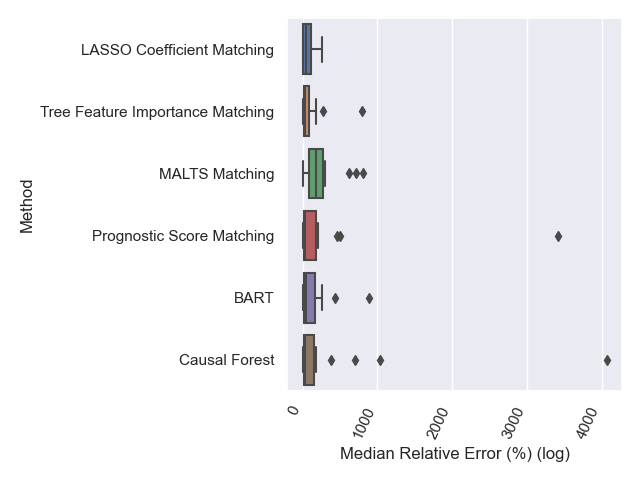
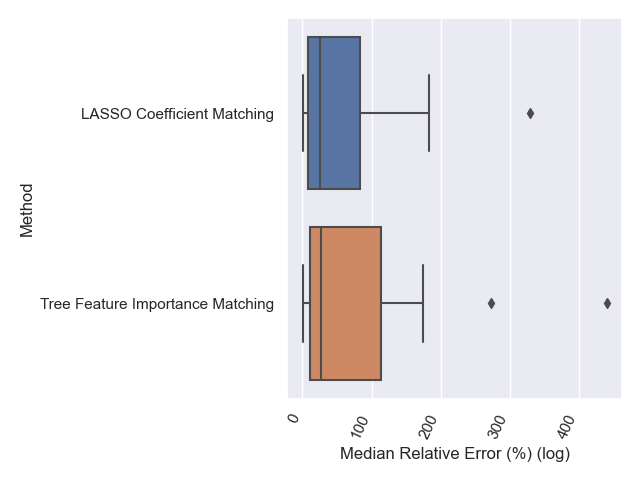
added drlearner to methods

diff --git a/Experiments/acic_error_and_runtime/cate_error.py b/Experiments/acic_error_and_runtime/cate_error.py
@@ -16,7 +16,7 @@ import matplotlib.ticker as ticker
 import seaborn as sns
 
 from Experiments.helpers import get_acic_data
-from other_methods import pymalts, bart, causalforest, prognostic, doubleml
+from other_methods import pymalts, bart, causalforest, prognostic, doubleml, drlearner
 from src.linear_coef_matching_mf import LCM_MF
 import pickle
 
@@ -113,22 +113,39 @@ cate_df['Method'] = [method_name for i in range(cate_df.shape[0])]
 df_err = df_err.append(cate_df[['Method', 'True_CATE', 'Est_CATE', 'Relative Error (%)']].copy(deep=True))
 print(f'{method_name} method complete: {time.time() - start}')
 
-# if run_malts:
-#     method_name = 'MALTS Matching'
-#     start = time.time()
-#     m = pymalts.malts_mf('Y', 'T', data=df_data, discrete=binary+categorical, k_tr=15, k_est=k_est,
-#                          n_splits=n_splits, estimator='linear', smooth_cate=False,
-#                          gen_skf=split_strategy)
-#     times[method_name] = time.time() - start
-#     cate_df = m.CATE_df
-#     cate_df = cate_df.rename(columns={'avg.CATE': 'Est_CATE'})
-#     cate_df['True_CATE'] = df_true['TE'].to_numpy()
-#     cate_df['Relative Error (%)'] = np.abs(
-#         (cate_df['Est_CATE'] - cate_df['True_CATE']) / np.abs(cate_df['True_CATE']).mean())
-#     cate_df['Method'] = [method_name for i in range(cate_df.shape[0])]
-#     df_err = df_err.append(cate_df[['Method', 'True_CATE', 'Est_CATE', 'Relative Error (%)']].copy(deep=True))
-#     print(f'{method_name} complete: {time.time() - start}')
-#
+method_name = 'Manhattan with Feature Selection'
+start = time.time()
+lcm = LCM_MF(outcome='Y', treatment='T', data=df_dummy_data, n_splits=n_splits, n_repeats=1)
+lcm.gen_skf = split_strategy
+lcm.fit(method='manhattan', double_model=False)
+lcm.MG(k=k_est)
+lcm.CATE(cate_methods=[['linear_pruned', False]])
+times[method_name] = time.time() - start
+
+cate_df = lcm.cate_df
+cate_df = cate_df.rename(columns={'avg.CATE': 'Est_CATE'})
+cate_df['True_CATE'] = df_true['TE'].to_numpy()
+cate_df['Relative Error (%)'] = np.abs((cate_df['Est_CATE']-cate_df['True_CATE'])/np.abs(cate_df['True_CATE']).mean())
+cate_df['Method'] = [method_name for i in range(cate_df.shape[0])]
+df_err = df_err.append(cate_df[['Method', 'True_CATE', 'Est_CATE', 'Relative Error (%)']].copy(deep=True))
+print(f'{method_name} method complete: {time.time() - start}')
+
+if run_malts:
+    method_name = 'MALTS Matching'
+    start = time.time()
+    m = pymalts.malts_mf('Y', 'T', data=df_data, discrete=binary+categorical, k_tr=15, k_est=k_est,
+                         n_splits=n_splits, estimator='linear', smooth_cate=False,
+                         gen_skf=split_strategy)
+    times[method_name] = time.time() - start
+    cate_df = m.CATE_df
+    cate_df = cate_df.rename(columns={'avg.CATE': 'Est_CATE'})
+    cate_df['True_CATE'] = df_true['TE'].to_numpy()
+    cate_df['Relative Error (%)'] = np.abs(
+        (cate_df['Est_CATE'] - cate_df['True_CATE']) / np.abs(cate_df['True_CATE']).mean())
+    cate_df['Method'] = [method_name for i in range(cate_df.shape[0])]
+    df_err = df_err.append(cate_df[['Method', 'True_CATE', 'Est_CATE', 'Relative Error (%)']].copy(deep=True))
+    print(f'{method_name} complete: {time.time() - start}')
+
 method_name = 'Prognostic Score Matching'
 start = time.time()
 cate_est_prog, _, _ = prognostic.prognostic_cv('Y', 'T', df_dummy_data,
@@ -141,47 +158,61 @@ df_err_prog['True_CATE'] = df_true['TE'].to_numpy()
 df_err_prog['Est_CATE'] = cate_est_prog['avg.CATE'].to_numpy()
 df_err = df_err.append(df_err_prog[['Method', 'True_CATE', 'Est_CATE', 'Relative Error (%)']])
 print(f'{method_name} complete: {time.time() - start}')
-#
-# method_name = 'DoubleML'
-# start = time.time()
-# cate_est_doubleml = doubleml.doubleml('Y', 'T', df_dummy_data, gen_skf=split_strategy)
-# times[method_name] = time.time() - start
-#
-# df_err_doubleml = pd.DataFrame()
-# df_err_doubleml['Method'] = [method_name for i in range(cate_est_doubleml.shape[0])]
-# df_err_doubleml['Relative Error (%)'] = np.abs(
-#     (cate_est_doubleml['avg.CATE'].to_numpy() - df_true['TE'].to_numpy()) / np.abs(df_true['TE']).mean())
-# df_err_doubleml['True_CATE'] = df_true['TE'].to_numpy()
-# df_err_doubleml['Est_CATE'] = cate_est_doubleml['avg.CATE'].to_numpy()
-# df_err = df_err.append(df_err_doubleml[['Method', 'True_CATE', 'Est_CATE', 'Relative Error (%)']])
-# print(f'{method_name} complete: {time.time() - start}')
-#
-# method_name = 'BART'
-# start = time.time()
-# cate_est_bart = bart.bart('Y', 'T', df_dummy_data, gen_skf=split_strategy)
-# times[method_name] = time.time() - start
-#
-# df_err_bart = pd.DataFrame()
-# df_err_bart['Method'] = [method_name for i in range(cate_est_bart.shape[0])]
-# df_err_bart['Relative Error (%)'] = np.abs(
-#     (cate_est_bart['avg.CATE'].to_numpy() - df_true['TE'].to_numpy()) / np.abs(df_true['TE']).mean())
-# df_err_bart['True_CATE'] = df_true['TE'].to_numpy()
-# df_err_bart['Est_CATE'] = cate_est_bart['avg.CATE'].to_numpy()
-# df_err = df_err.append(df_err_bart[['Method', 'True_CATE', 'Est_CATE', 'Relative Error (%)']])
-# print(f'{method_name} complete: {time.time() - start}')
-#
-# method_name = 'Causal Forest'
-# start = time.time()
-# cate_est_cf = causalforest.causalforest('Y', 'T', df_dummy_data, gen_skf=split_strategy)
-# times[method_name] = time.time() - start
-#
-# df_err_cf = pd.DataFrame()
-# df_err_cf['Method'] = [method_name for i in range(cate_est_cf.shape[0])]
-# df_err_cf['Relative Error (%)'] = np.abs((cate_est_cf['avg.CATE'].to_numpy() - df_true['TE'].to_numpy())/np.abs(df_true['TE']).mean())
-# df_err_cf['True_CATE'] = df_true['TE'].to_numpy()
-# df_err_cf['Est_CATE'] = cate_est_cf['avg.CATE'].to_numpy()
-# df_err = df_err.append(df_err_cf[['Method', 'True_CATE', 'Est_CATE', 'Relative Error (%)']])
-# print(f'{method_name} complete: {time.time() - start}')
+
+method_name = 'DoubleML'
+start = time.time()
+cate_est_doubleml = doubleml.doubleml('Y', 'T', df_dummy_data, gen_skf=split_strategy)
+times[method_name] = time.time() - start
+
+df_err_doubleml = pd.DataFrame()
+df_err_doubleml['Method'] = [method_name for i in range(cate_est_doubleml.shape[0])]
+df_err_doubleml['Relative Error (%)'] = np.abs(
+    (cate_est_doubleml['avg.CATE'].to_numpy() - df_true['TE'].to_numpy()) / np.abs(df_true['TE']).mean())
+df_err_doubleml['True_CATE'] = df_true['TE'].to_numpy()
+df_err_doubleml['Est_CATE'] = cate_est_doubleml['avg.CATE'].to_numpy()
+df_err = df_err.append(df_err_doubleml[['Method', 'True_CATE', 'Est_CATE', 'Relative Error (%)']])
+print(f'{method_name} complete: {time.time() - start}')
+
+method_name = 'DRLearner'
+start = time.time()
+cate_est_drlearner = drlearner.drlearner('Y', 'T', df_dummy_data, gen_skf=split_strategy)
+times[method_name] = time.time() - start
+
+df_err_drlearner = pd.DataFrame()
+df_err_drlearner['Method'] = [method_name for i in range(cate_est_drlearner.shape[0])]
+df_err_drlearner['Relative Error (%)'] = np.abs(
+    (cate_est_drlearner['avg.CATE'].to_numpy() - df_true['TE'].to_numpy()) / np.abs(df_true['TE']).mean())
+df_err_drlearner['True_CATE'] = df_true['TE'].to_numpy()
+df_err_drlearner['Est_CATE'] = cate_est_drlearner['avg.CATE'].to_numpy()
+df_err = df_err.append(df_err_drlearner[['Method', 'True_CATE', 'Est_CATE', 'Relative Error (%)']])
+print(f'{method_name} complete: {time.time() - start}')
+
+method_name = 'BART'
+start = time.time()
+cate_est_bart = bart.bart('Y', 'T', df_dummy_data, gen_skf=split_strategy)
+times[method_name] = time.time() - start
+
+df_err_bart = pd.DataFrame()
+df_err_bart['Method'] = [method_name for i in range(cate_est_bart.shape[0])]
+df_err_bart['Relative Error (%)'] = np.abs(
+    (cate_est_bart['avg.CATE'].to_numpy() - df_true['TE'].to_numpy()) / np.abs(df_true['TE']).mean())
+df_err_bart['True_CATE'] = df_true['TE'].to_numpy()
+df_err_bart['Est_CATE'] = cate_est_bart['avg.CATE'].to_numpy()
+df_err = df_err.append(df_err_bart[['Method', 'True_CATE', 'Est_CATE', 'Relative Error (%)']])
+print(f'{method_name} complete: {time.time() - start}')
+
+method_name = 'Causal Forest'
+start = time.time()
+cate_est_cf = causalforest.causalforest('Y', 'T', df_dummy_data, gen_skf=split_strategy)
+times[method_name] = time.time() - start
+
+df_err_cf = pd.DataFrame()
+df_err_cf['Method'] = [method_name for i in range(cate_est_cf.shape[0])]
+df_err_cf['Relative Error (%)'] = np.abs((cate_est_cf['avg.CATE'].to_numpy() - df_true['TE'].to_numpy())/np.abs(df_true['TE']).mean())
+df_err_cf['True_CATE'] = df_true['TE'].to_numpy()
+df_err_cf['Est_CATE'] = cate_est_cf['avg.CATE'].to_numpy()
+df_err = df_err.append(df_err_cf[['Method', 'True_CATE', 'Est_CATE', 'Relative Error (%)']])
+print(f'{method_name} complete: {time.time() - start}')
 
 df_err.loc[:, 'Relative Error (%)'] = df_err.loc[:, 'Relative Error (%)'] * 100
 

diff --git a/other_methods/drlearner.py b/other_methods/drlearner.py
@@ -1,10 +1,10 @@
-from econml.dml import LinearDML, SparseLinearDML
+from econml.dr import LinearDRLearner
 import numpy as np
 import pandas as pd
 from sklearn.model_selection import StratifiedKFold
 
 
-def doubleml(outcome, treatment, data, n_splits=2, gen_skf=None):
+def drlearner(outcome, treatment, data, n_splits=2, gen_skf=None):
     if gen_skf is None:
         skf = StratifiedKFold(n_splits=n_splits)
         gen_skf = skf.split(data, data[treatment])
@@ -17,7 +17,7 @@ def doubleml(outcome, treatment, data, n_splits=2, gen_skf=None):
         Y = np.array(df_train.loc[:, outcome])
         T = np.array(df_train.loc[:, treatment])
         X_est = np.array(df_est.loc[:, covariates])
-        est = LinearDML(discrete_treatment=True, featurizer=None, linear_first_stages=False)
+        est = LinearDRLearner(featurizer=None)
         est.fit(Y=Y, T=T, X=X, W=X)
         this_te_est = est.effect(X=X_est)
         this_index = df_est.index
@@ -29,10 +29,10 @@ def doubleml(outcome, treatment, data, n_splits=2, gen_skf=None):
     cate_est['std.CATE'] = cate_est.std(axis=1)
     return cate_est
 
-def doubleml_sample(outcome, treatment, df_train, sample, covariates):
+def drlearner_sample(outcome, treatment, df_train, sample, covariates):
     X = np.array(df_train.loc[:, covariates])
     Y = np.array(df_train.loc[:, outcome])
     T = np.array(df_train.loc[:, treatment])
-    est = LinearDML(discrete_treatment=True, featurizer=None, linear_first_stages=False)
+    est = LinearDRLearner(featurizer=None)
     est.fit(Y=Y, T=T, X=X, W=X)
     return est.effect(sample)

diff --git a/src/linear_coef_matching.py b/src/linear_coef_matching.py
@@ -93,11 +93,12 @@ class LCM:
                 model = linear.LassoCV().fit(self.X, self.Y)
                 M_hat = np.abs(model.coef_[:-1]).reshape(-1, )
             elif method == 'tree':
+                model = tree.DecisionTreeRegressor(max_depth=4).fit(self.X, self.Y)
+                M_hat = model.feature_importances_[:-1].reshape(-1,)
+            elif method == 'manhattan':
                 model = linear.LassoCV().fit(self.X, self.Y)
                 M_hat = np.abs(model.coef_[:-1]).reshape(-1, )
                 M_hat = np.where(M_hat > 0, 1, 0)
-                # model = tree.DecisionTreeRegressor(max_depth=4).fit(self.X, self.Y)
-                # M_hat = model.feature_importances_[:-1].reshape(-1,)
             self.M = (M_hat / np.sum(M_hat)) * self.p if not np.all(M_hat == 0) else np.ones(self.p)
         if return_score:
             if double_model:

diff --git a/Experiments/acic_error_and_runtime/plotting/errors.py b/Experiments/acic_error_and_runtime/plotting/errors.py
@@ -8,7 +8,7 @@ import seaborn as sns
 all_folders = glob(f"{os.getenv('RESULTS_FOLDER')}/*/", recursive=True)
 
 q = 0.5
-methods = ['LASSO Coefficient Matching', 'Tree Feature Importance Matching', 'MALTS Matching', 'Prognostic Score Matching', 'BART', 'Causal Forest']
+methods = ['LASSO Coefficient Matching', 'Tree Feature Importance Matching']
 all_errors = pd.DataFrame([], index=methods)
 failed_files = []
 name_to_label = {}
